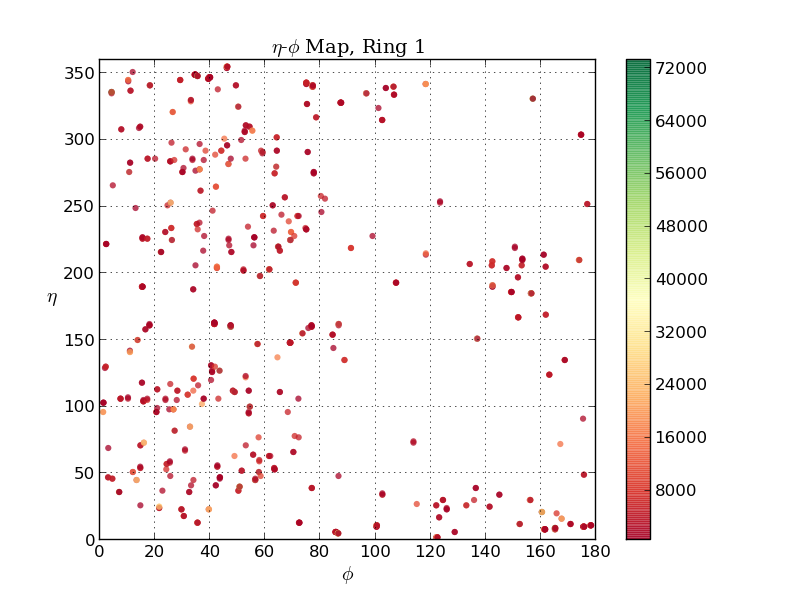
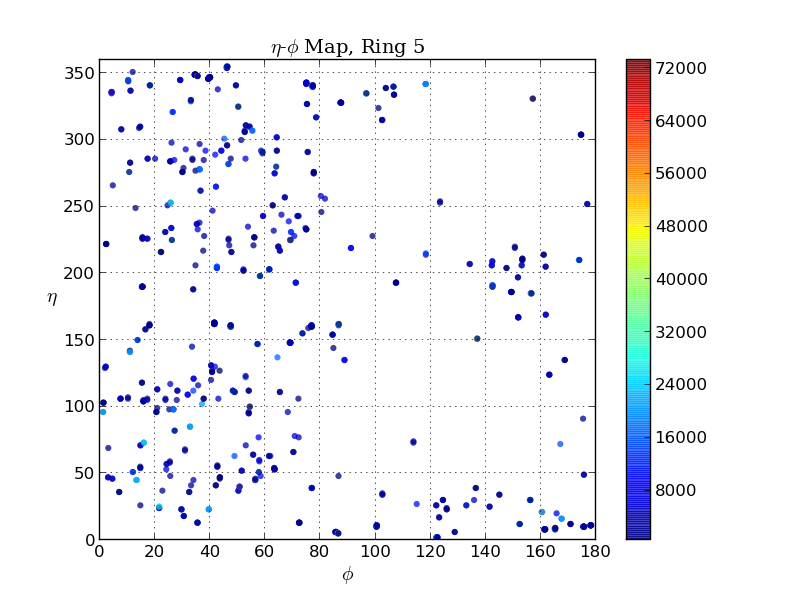
Altered colormap

diff --git a/etaphi.py b/etaphi.py
@@ -68,7 +68,7 @@ def plotter(etaInt, ringi):
             p.append(pi[j])
             w.append(wi[j,0])
     
-    plt.scatter(p,e,c = w, s = 20, cmap = plt.cm.BuYlRd, edgecolors = 'None', alpha = 0.75)
+    plt.scatter(p,e,c = w, s = 20, cmap = plt.cm.jet, edgecolors = 'None', alpha = 0.75)
     plt.colorbar()
     plt.grid()
     
